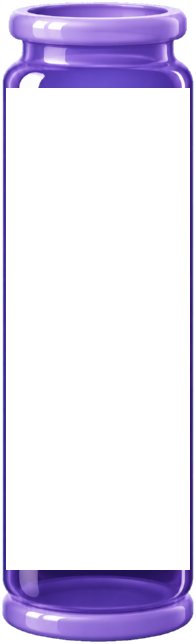
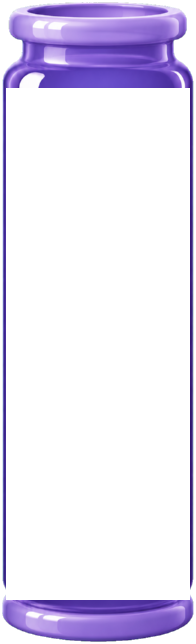
Корм лежит на дне банки (на полу за кольцом донышка), банки ниже

Changed region(s): [[0.0306, 0.8696, 0.9796, 0.9317]]

diff --git a/src/scenes/GameScene.js b/src/scenes/GameScene.js
@@ -68,7 +68,8 @@ export class GameScene extends Phaser.Scene {
     const art = CONFIG.jar.art;
     const neck = (bw) => (art.top * bw) / tex.width;
     const base = (bw) => ((tex.height - art.bottom) * bw) / tex.width;
-    const bh0 = this.board.capacity * L.portionHeight + L.bowlPadding + base(L.bowlWidth);
+    const floor = (bw) => ((tex.height - art.floor) * bw) / tex.width;
+    const bh0 = this.board.capacity * L.portionHeight + L.bowlPadding + floor(L.bowlWidth);
     const availW = CONFIG.width - L.sideMargin * 2;
     const availH = L.bowlsBottom - L.bowlsTop - neck(L.bowlWidth);
     let best = null;
@@ -88,11 +89,12 @@ export class GameScene extends Phaser.Scene {
       gx: L.bowlGapX * scale,
       gy: L.bowlGapY * scale,
       neck: neck(bw),   // высота горлышка над верхом стенок
-      base: base(bw),   // высота донышка
+      base: base(bw),   // высота донышка (от него вверх растягиваются стенки)
+      floor: floor(bw), // от низа банки до пола, на котором лежит корм
       k: bw / tex.width, // пикселей экрана на пиксель картинки банки
       scale,
     });
-    const bh = this.board.capacity * d.ph + d.pad + d.base;
+    const bh = this.board.capacity * d.ph + d.pad + d.floor;
     const totalH = rows * bh + (rows - 1) * d.gy;
     const top0 = L.bowlsBottom - totalH; // нижний ряд стоит на столе
 
@@ -111,7 +113,7 @@ export class GameScene extends Phaser.Scene {
   slotPos(bowl, slot) {
     const r = this.bowlRects[bowl];
     const d = this.dim;
-    return { x: r.x, y: r.bottom - d.base - d.ph / 2 - slot * d.ph };
+    return { x: r.x, y: r.bottom - d.floor - d.ph / 2 - slot * d.ph };
   }
 
   // Верх горлышка банки — сюда кот наклоняется есть.

diff --git a/src/config.js b/src/config.js
@@ -56,8 +56,9 @@ export const CONFIG = {
   // Банка для корма (рисуется кодом)
   jar: {
     // картинка банки (jar_back — целиком, jar_front — горлышко, донышко, край и блики поверх корма; tools/jar-layers.mjs).
-    // В пикселях файла: до top — горлышко, от bottom — донышко, между ними стенки растягиваются по высоте; edge — край стекла.
-    art: { top: 88, bottom: 570, edge: 6 },
+    // В пикселях файла: до top — горлышко, от bottom — донышко, между ними стенки растягиваются по высоте;
+    // floor — где лежит корм (пол банки; ниже — кольцо донышка, оно спереди закрывает низ корма); edge — край стекла.
+    art: { top: 88, bottom: 570, floor: 600, edge: 6 },
   },
 
   // Когтеточка: собранную и съеденную банку обматывает джут цвета корма, сверху — картинка корма
@@ -83,7 +84,7 @@ export const CONFIG = {
     sideMargin: 24,     // отступ мисок от краёв экрана
     bowlWidth: 120,
     portionHeight: 58,
-    bowlPadding: 10,    // запас под горлышком над верхней порцией
+    bowlPadding: 4,     // запас под горлышком над верхней порцией
     bowlGapX: 40,
     bowlGapY: 80,
     buttonsY: 1212,
